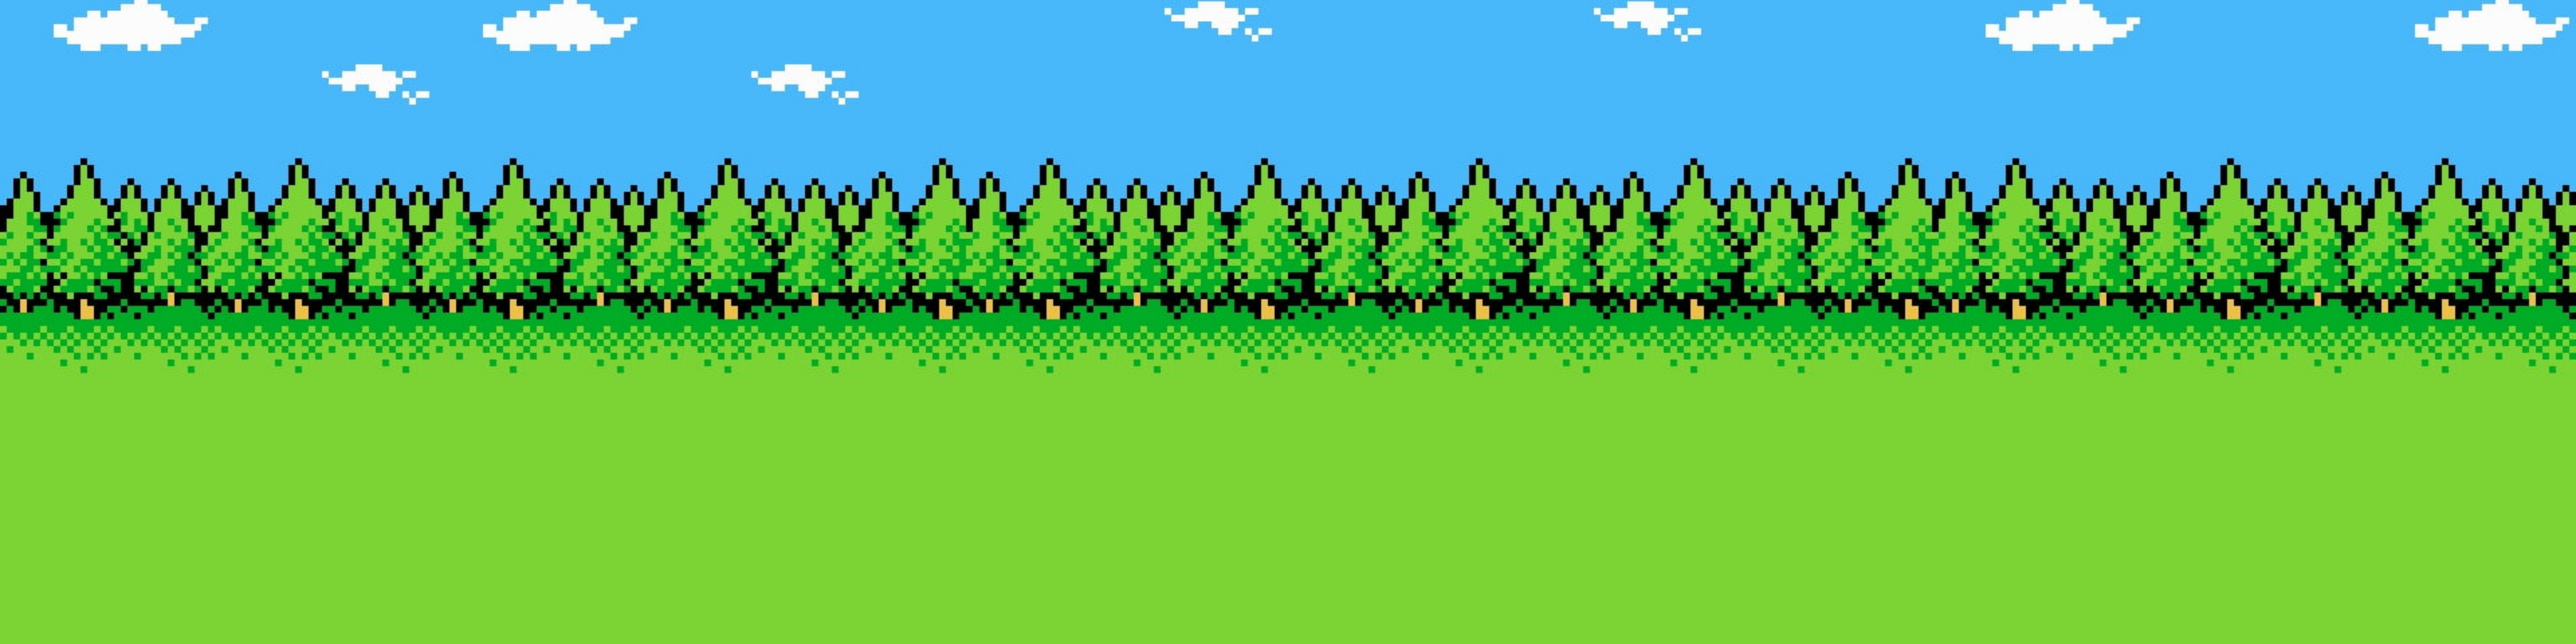
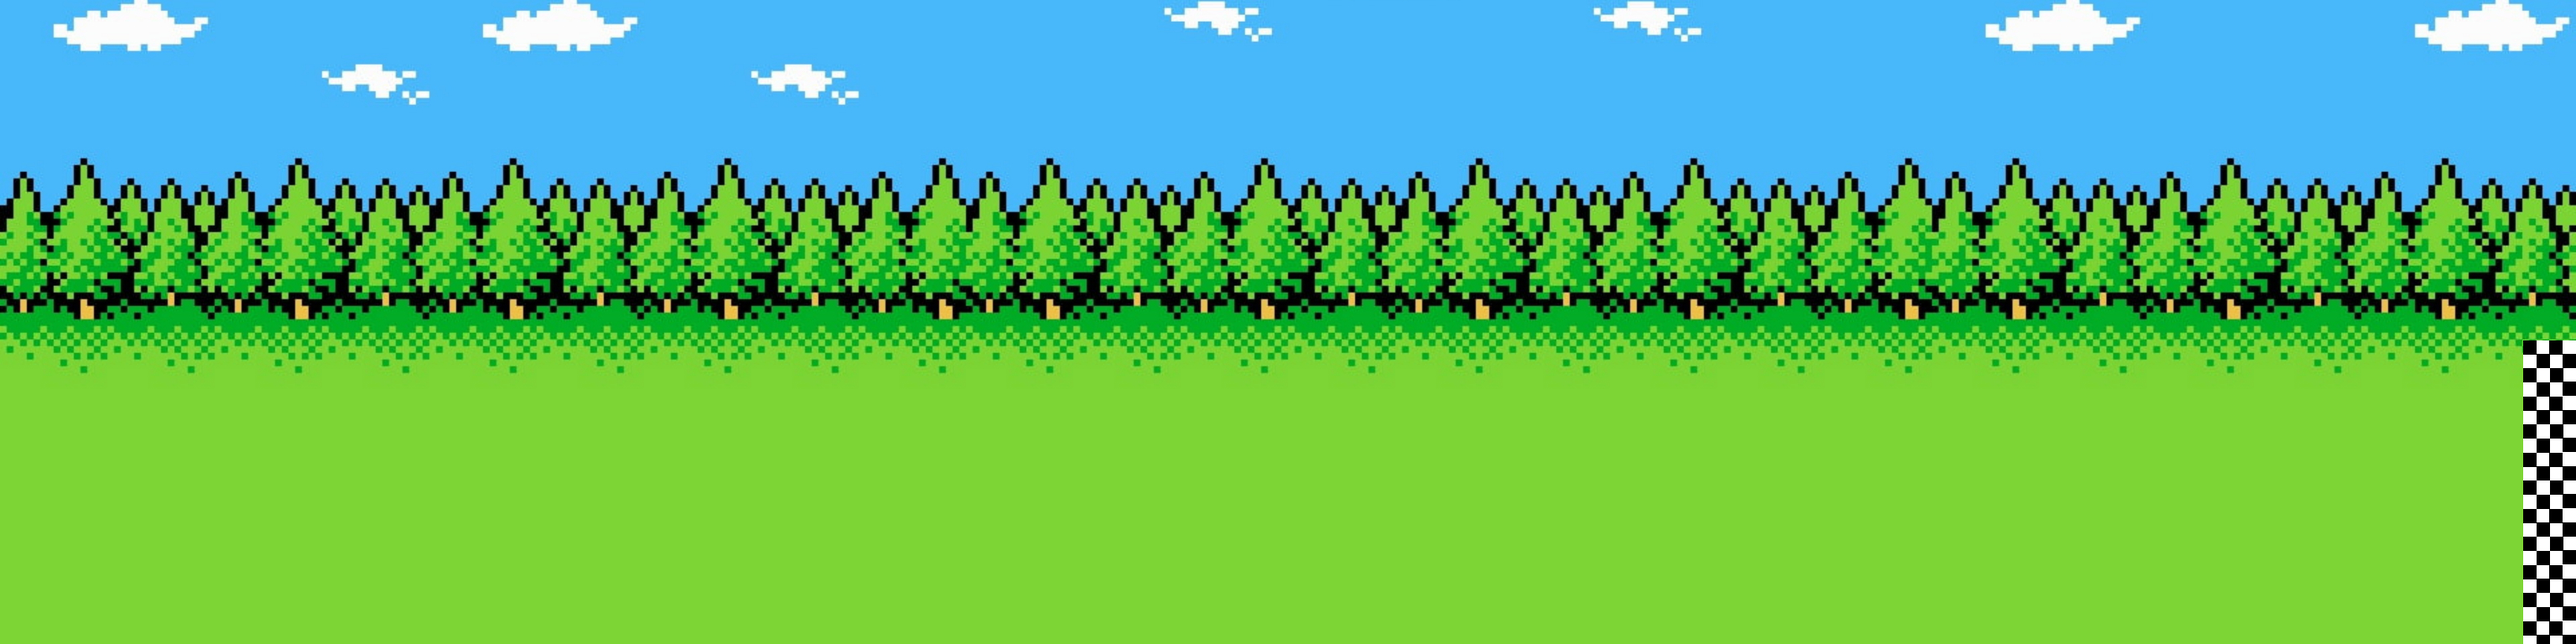
IA de los bots completada
Solamente falta anunciar en pantalla completa el ganador, el sistema de pausa y la musica

Changed region(s): [[0.9688, 0.5312, 1.0, 1.0]]

diff --git a/Caballos/Bots.java b/Caballos/Bots.java
@@ -4,16 +4,17 @@ import java.awt.event.*;
 import java.awt.geom.*;
 public class Bots extends JLabel implements Runnable{
     private ImageIcon icon;
-    private String url1,url2,url3,url4;
+    private String url1,url2,url3,url4,name;
     private boolean runStatus,moveStatus=false,upSatus=false,right=true,left=false,up=false,correr=false,falling=false;
     JLabel roca,fondo,rocaother,rocaother2;
     Human1  player;
     Bots botcito;
-    public Bots(String url1,String url2,String url3,String url4){
+    public Bots(String url1,String url2,String url3,String url4,String name){
         this.url1=url1;
         this.url2=url2;
         this.url3=url3;
         this.url4=url4;
+        this.name=name;
         icon=new ImageIcon(this.getClass().getResource(url1));
         setIcon(icon);
     }
@@ -31,7 +32,15 @@ public class Bots extends JLabel implements Runnable{
             while(interseccion()){caer(3,70);}
             //Se recomponen por default las cosas aleatorias
             up=false;
-            correr=false;     
+            correr=false;
+            if(getX()>1215){//Condicional de si gano
+                System.out.println("Gano "+name);
+                break;
+            }else if(player.getX()>1215){
+                break;
+            }else if(botcito.getX()>1215){
+                break;
+            }    
         }        
     }//end run
     public void caer(int power,int time){
@@ -61,7 +70,8 @@ public class Bots extends JLabel implements Runnable{
     }//end salto
     public void moveImage(int power,int time){
         changeImage();
-        if(roca.getX()<10){roca.setBounds(roca.getX()+1000,roca.getY(),roca.getWidth(),roca.getHeight());}//Reaparece la roca
+        roca.setBounds(roca.getX()-power,roca.getY(),roca.getWidth(),roca.getHeight());
+        if(roca.getX()<-30){roca.setBounds(roca.getX()+1280,roca.getY(),roca.getWidth(),roca.getHeight());}//Reaparece la roca
         if(getX()>640&&fondo.getX()>-1792&& !left){            
             fondo.setBounds(fondo.getX()-power,fondo.getY(),fondo.getWidth(),fondo.getHeight());
             roca.setBounds(roca.getX()-power,roca.getY(),roca.getWidth(),roca.getHeight());

diff --git a/Caballos/Human1.java b/Caballos/Human1.java
@@ -26,7 +26,14 @@ public class Human1 extends JLabel implements Runnable ,KeyListener{
             else if(right&&up){salto(3, 3, 50);}
             else if(up){salto(1, 3, 20);}
             while(interseccion()){caer(2,70);}
-               
+            if(getX()>1215){//Condicional de si gano
+                System.out.println("Gano Humano");
+                break;
+            }else if(botcito.getX()>1215){
+                break;
+            }else if(botcito2.getX()>1215){
+                break;
+            }
         }        
     }//end run
     public void caer(int power,int time){
@@ -56,7 +63,8 @@ public class Human1 extends JLabel implements Runnable ,KeyListener{
     }//end salto
     public void moveImage(int power,int time){
         changeImage();
-        if(roca.getX()<10){roca.setBounds(roca.getX()+1000,roca.getY(),roca.getWidth(),roca.getHeight());}//Reaparece la roca
+        roca.setBounds(roca.getX()-power,roca.getY(),roca.getWidth(),roca.getHeight());
+        if(roca.getX()<-30){roca.setBounds(roca.getX()+1280,roca.getY(),roca.getWidth(),roca.getHeight());}//Reaparece la roca
         if(getX()>640&&fondo.getX()>-1792&& !left){            
             fondo.setBounds(fondo.getX()-power,fondo.getY(),fondo.getWidth(),fondo.getHeight());
             roca.setBounds(roca.getX()-power,roca.getY(),roca.getWidth(),roca.getHeight());

diff --git a/Caballos/Ventana.java b/Caballos/Ventana.java
@@ -12,8 +12,8 @@ public class Ventana extends JFrame{
         background.setIcon(icon);
 
         Human1 man=new Human1("images/human1.png", "images/human2.png", "images/humanjump.png","images/humanfall.png");
-        Bots bot=new Bots("images/human1.png", "images/human2.png", "images/humanjump.png","images/humanfall.png");
-        Bots bot2=new Bots("images/human1.png", "images/human2.png", "images/humanjump.png","images/humanfall.png");
+        Bots bot=new Bots("images/human1.png", "images/human2.png", "images/humanjump.png","images/humanfall.png","corredor 3");
+        Bots bot2=new Bots("images/human1.png", "images/human2.png", "images/humanjump.png","images/humanfall.png","corredor 1");
         JLabel roca=new JLabel();
         JLabel rocabot=new JLabel();
         JLabel rocabot2=new JLabel();
